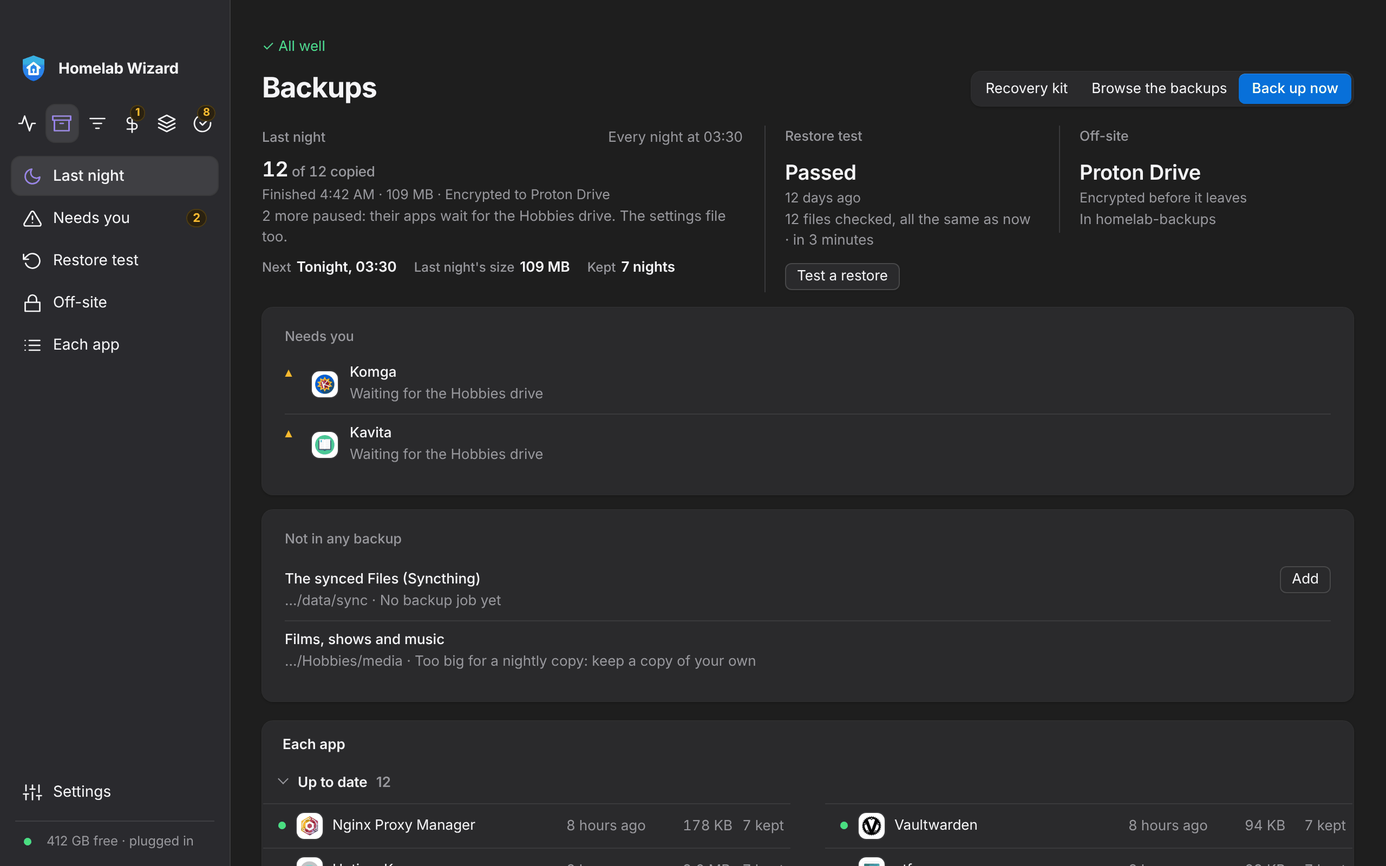
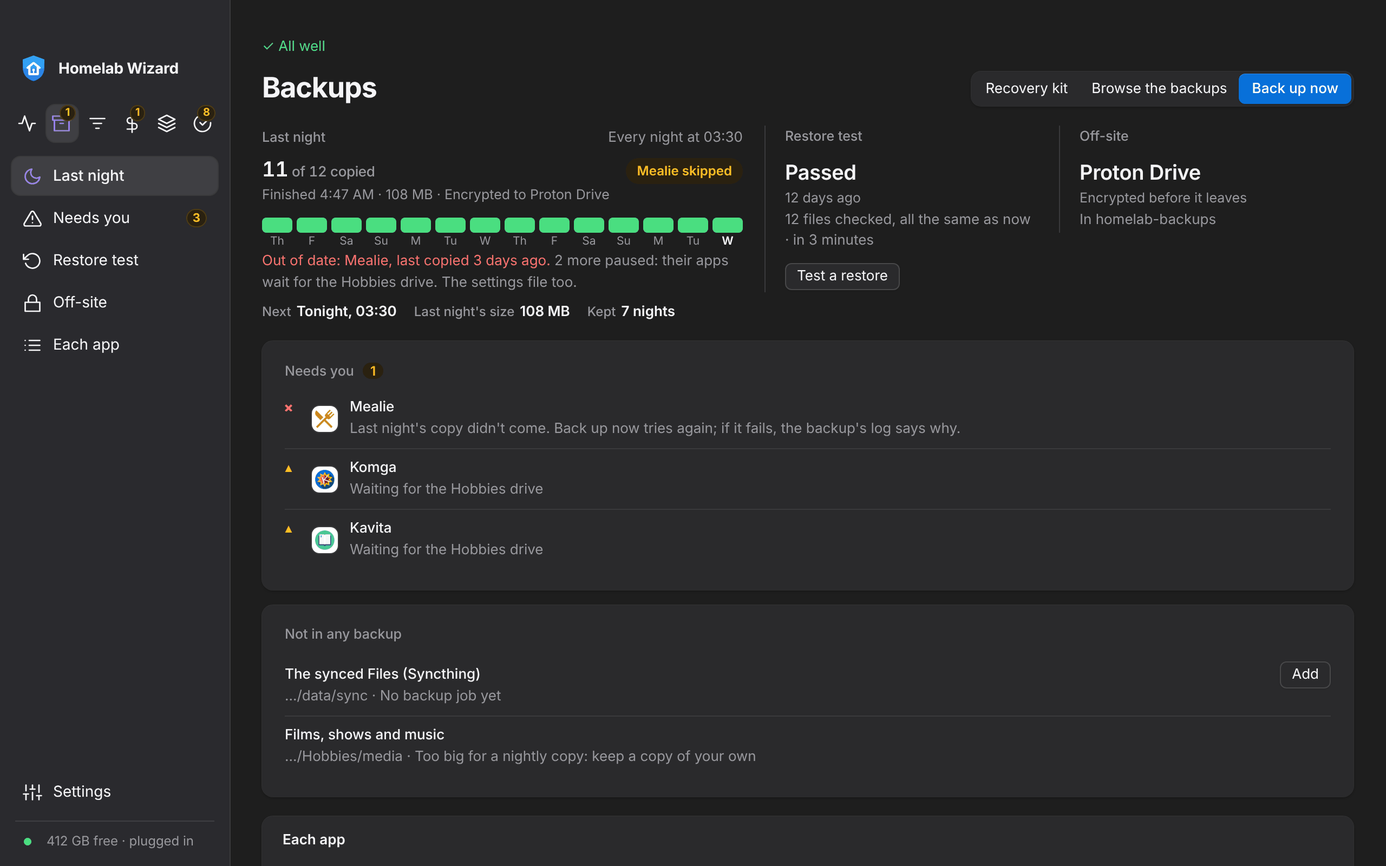
The last fourteen nights on Backups, and each app's last seven (#882)
* The last fourteen nights on Backups, and each app's last seven

R7 with lane Q's Q4 (a) (#871): under Last night a square a night, green
when every app was copied, amber when one was stopped, red when one failed,
its weekday under it and the night in words on hover (nightTone,
nightWords); in Each app each app's last seven nights as dots (appNights),
the warn and bad ones keeping their shapes. Mock nights in the smoke data
(Mealie stopped the last three, as its copy is 3 days old) and in the docs
picture (all copied, as its 12 of 12). Two smoke cases; app-backups redrawn.

Claude-Session: https://claude.ai/code/session_019rTjsZkQcBSAgkdBCC89aD

* Each app's nights in a fifth column, so a copy stays on one line

The two-to-a-line grid had four columns; the dots wrapped under the name
(smoke: one line a copy). A fifth column while nights are kept, the dots
3px apart.

Claude-Session: https://claude.ai/code/session_019rTjsZkQcBSAgkdBCC89aD

* Each app's night dots leave a one-column Backups, so nothing scrolls sideways

CI: Nothing scrolls sideways in the smallest window, backups (every system,
light): at text size 2 the dots' column pushed Each app's table past the
window. Below 760px the dots go; the squares under Last night say the
nights. The eight cases pass here, light and dark.

Claude-Session: https://claude.ai/code/session_019rTjsZkQcBSAgkdBCC89aD

---------

diff --git a/web/src/backups/Backups.tsx b/web/src/backups/Backups.tsx
@@ -82,6 +82,50 @@ export function JobRun({ j }: { j: duplicati.Job }) {
   );
 }
 
+/** A night's result for one app, as a tone: copied is ok, stopped (so not copied) warn, failed bad; nothing to copy none. */
+export const resultTone = (r?: string): Tone => (r === 'copied' ? 'ok' : r === 'stopped' ? 'warn' : r === 'failed' ? 'bad' : '');
+
+/** A whole night (quality-loop Q4 (a)): bad when an app's copy failed, warn when one was stopped, ok when every app it
+ * had to copy was copied; '' with nothing to copy. */
+export function nightTone(n: backup.Night): Tone {
+  const r = Object.values(n.apps || {});
+  if (r.includes('failed')) return 'bad';
+  if (r.includes('stopped')) return 'warn';
+  return r.includes('copied') ? 'ok' : '';
+}
+
+const nightDate = (day: string) => { const [y, m, d] = day.split('-').map(Number); return new Date(y, m - 1, d); };
+
+/** "Mon, Nov 24: 11 of 12 copied · Mealie stopped". */
+export function nightWords(n: backup.Night, name: (id: string) => string): string {
+  const all = Object.entries(n.apps || {}).filter(([, r]) => r !== 'none' && r !== 'outside');
+  const copied = all.filter(([, r]) => r === 'copied').length;
+  const missed = all.filter(([, r]) => r === 'failed' || r === 'stopped').map(([id, r]) => `${name(id)} ${r}`);
+  const day = nightDate(n.date).toLocaleDateString('en-US', { weekday: 'short', month: 'short', day: 'numeric' });
+  return `${day}: ${all.length ? `${copied} of ${all.length} copied` : 'nothing to copy'}${missed.length ? ' · ' + missed.join(', ') : ''}`;
+}
+
+/** The last fourteen nights as squares under Last night (R7), oldest first, each its weekday's letter under it. */
+function Nights({ nights, name }: { nights: backup.Night[]; name: (id: string) => string }) {
+  const shown = nights.slice(-14);
+  return (
+    <div class="bknights" role="list" aria-label={`The last ${shown.length} nights`}>
+      {shown.map((n) => {
+        const words = nightWords(n, name);
+        return (
+          <span key={n.date} role="listitem" class={'bknight ' + nightTone(n)} title={words} aria-label={words}>
+            <i />
+            <small aria-hidden="true">{['Su', 'M', 'Tu', 'W', 'Th', 'F', 'Sa'][nightDate(n.date).getDay()]}</small>
+          </span>
+        );
+      })}
+    </div>
+  );
+}
+
+/** An app's last `count` nights, oldest first: its result each night (undefined where the night didn't have it). */
+export const appNights = (nights: backup.Night[], app: string, count = 7) => nights.slice(-count).map((n) => ({ date: n.date, result: n.apps?.[app] }));
+
 /** The drives the paused copies' apps wait for, in words. */
 const drivesOf = (copies: backup.Copy[]) => [...new Set(copies.map((c) => driveName(c.waitingFor || '')))].join(' and ');
 
@@ -99,7 +143,7 @@ export interface BackupTilesProps {
  * The top of Backups as the redesign's picture (R7): Last night, with how many copied, when it finished, what it came
  * to and where it went, then Next, its size and what's kept; Needs you beside it; the restore test, off-site and Not
  * in any backup under, a third each (the last only while something is left out).
- * The fourteen nights and each app's nights join when the engine keeps them (quality-loop Q4 (a)).
+ * The fourteen nights (quality-loop Q4 (a)) as squares under Last night; each app's last seven as dots in Each app.
  */
 export function BackupTiles({ o, os, test, apps, start, gaps, addGap }: BackupTilesProps) {
   const copies = sortedCopies(o);
@@ -118,6 +162,7 @@ export function BackupTiles({ o, os, test, apps, start, gaps, addGap }: BackupTi
           figure={<span class="value">{copies.length ? <>{fresh.length}<small> of {copies.length - paused.length} copied</small></> : 'None yet'}</span>}
           label={never(o.lastRun) ? undefined : [lastNight ? `Finished ${clockText(new Date(o.lastRun))}` : ago(o.lastRun), size ? bytes(size) : '', o.destinationOK ? `Encrypted to ${placeName(o.destination)}` : ''].filter(Boolean).join(' · ')}
           chip={stale.length ? <span class="bkskipped">{stale.length === 1 ? `${stale[0].name} skipped` : `${stale.length} skipped`}</span> : undefined} />
+        {!!o.nights?.length && <Nights nights={o.nights} name={(id) => copies.find((c) => c.app === id)?.name || apps?.[id]?.name || id} />}
         <p class="bksub">{!copies.length ? 'The first are made the night after an app with a database starts'
           : <>{!!stale.length && <span class="bad">Out of date: {stale.map((c) => `${c.name}, last copied ${ago(c.newest)}`).join('; ')}. </span>}
             {!!paused.length && <span>{`${paused.length} more paused: ${paused.length === 1 ? 'its app waits' : 'their apps wait'} for ${drivesOf(paused)}`}. </span>}
@@ -183,7 +228,9 @@ export function staleWhy(c: backup.Copy, apps?: Record<string, api.AppStatus>): 
 export function CopyRows({ o, apps }: { o: backup.Overview; apps?: Record<string, api.AppStatus> }) {
   const [picked, setPicked] = useState<Record<string, boolean>>({});
   const groups = copyGroups(o);
-  if (!groups.length) return <tr><td colSpan={4} class="muted">No installed app has a database to dump yet.</td></tr>;
+  const nights = o.nights || [];
+  const cols = nights.length ? 5 : 4;
+  if (!groups.length) return <tr><td colSpan={cols} class="muted">No installed app has a database to dump yet.</td></tr>;
   return (
     <>
       {groups.map((g) => {
@@ -191,7 +238,7 @@ export function CopyRows({ o, apps }: { o: backup.Overview; apps?: Record<string
         const toggle = () => setPicked({ ...picked, [g.key]: !open });
         return [
           <tr key={'g:' + g.key} class={'grouphead fold copygroup ' + g.key + (g.tone === 'bad' ? ' bad' : '') + (open ? ' open' : '')} onClick={toggle}>
-            <th colSpan={4}>
+            <th colSpan={cols}>
               <button type="button" class="foldbtn" aria-expanded={open} onClick={(e) => { e.stopPropagation(); toggle(); }}>
                 <span class="chev" aria-hidden="true">{open ? '▾' : '▸'}</span>{g.label}
               </button>
@@ -210,6 +257,9 @@ export function CopyRows({ o, apps }: { o: backup.Overview; apps?: Record<string
                 {bytes(c.size)}{!c.shrank && changed(c) && <span class="was"> (was {bytes(c.before || 0)})</span>}
               </td>
               <td class="kept muted">{c.count ? `${c.count} kept` : '—'}</td>
+              {!!nights.length && <td class="nights" aria-label={`The last ${Math.min(7, nights.length)} nights`}>
+                {appNights(nights, c.app || c.id).map((n) => <span key={n.date} class={'dot ' + resultTone(n.result)} title={`${nightDate(n.date).toLocaleDateString('en-US', { month: 'short', day: 'numeric' })}: ${n.result || 'not copied yet'}`} />)}
+              </td>}
             </tr>
           )) : []),
         ];

diff --git a/web/dist/app.js b/web/dist/app.js
@@ -7909,6 +7909,35 @@
       !never(j3.nextRun) && line(`Next run ${dateTimeText(new Date(j3.nextRun))}`, "outfoot")
     ] });
   }
+  var resultTone = (r3) => r3 === "copied" ? "ok" : r3 === "stopped" ? "warn" : r3 === "failed" ? "bad" : "";
+  function nightTone(n3) {
+    const r3 = Object.values(n3.apps || {});
+    if (r3.includes("failed")) return "bad";
+    if (r3.includes("stopped")) return "warn";
+    return r3.includes("copied") ? "ok" : "";
+  }
+  var nightDate = (day3) => {
+    const [y3, m3, d3] = day3.split("-").map(Number);
+    return new Date(y3, m3 - 1, d3);
+  };
+  function nightWords(n3, name) {
+    const all = Object.entries(n3.apps || {}).filter(([, r3]) => r3 !== "none" && r3 !== "outside");
+    const copied = all.filter(([, r3]) => r3 === "copied").length;
+    const missed2 = all.filter(([, r3]) => r3 === "failed" || r3 === "stopped").map(([id2, r3]) => `${name(id2)} ${r3}`);
+    const day3 = nightDate(n3.date).toLocaleDateString("en-US", { weekday: "short", month: "short", day: "numeric" });
+    return `${day3}: ${all.length ? `${copied} of ${all.length} copied` : "nothing to copy"}${missed2.length ? " · " + missed2.join(", ") : ""}`;
+  }
+  function Nights({ nights, name }) {
+    const shown8 = nights.slice(-14);
+    return /* @__PURE__ */ u3("div", { class: "bknights", role: "list", "aria-label": `The last ${shown8.length} nights`, children: shown8.map((n3) => {
+      const words5 = nightWords(n3, name);
+      return /* @__PURE__ */ u3("span", { role: "listitem", class: "bknight " + nightTone(n3), title: words5, "aria-label": words5, children: [
+        /* @__PURE__ */ u3("i", {}),
+        /* @__PURE__ */ u3("small", { "aria-hidden": "true", children: ["Su", "M", "Tu", "W", "Th", "F", "Sa"][nightDate(n3.date).getDay()] })
+      ] }, n3.date);
+    }) });
+  }
+  var appNights = (nights, app, count2 = 7) => nights.slice(-count2).map((n3) => ({ date: n3.date, result: n3.apps?.[app] }));
   var drivesOf = (copies) => [...new Set(copies.map((c4) => driveName(c4.waitingFor || "")))].join(" and ");
   function BackupTiles({ o: o3, os, test, apps: apps2, start, gaps, addGap }) {
     const copies = sortedCopies(o3);
@@ -7937,6 +7966,7 @@
             chip: stale.length ? /* @__PURE__ */ u3("span", { class: "bkskipped", children: stale.length === 1 ? `${stale[0].name} skipped` : `${stale.length} skipped` }) : void 0
           }
         ),
+        !!o3.nights?.length && /* @__PURE__ */ u3(Nights, { nights: o3.nights, name: (id2) => copies.find((c4) => c4.app === id2)?.name || apps2?.[id2]?.name || id2 }),
         /* @__PURE__ */ u3("p", { class: "bksub", children: !copies.length ? "The first are made the night after an app with a database starts" : /* @__PURE__ */ u3(S, { children: [
           !!stale.length && /* @__PURE__ */ u3("span", { class: "bad", children: [
             "Out of date: ",
@@ -8027,12 +8057,14 @@
   function CopyRows({ o: o3, apps: apps2 }) {
     const [picked, setPicked] = d2({});
     const groups4 = copyGroups(o3);
-    if (!groups4.length) return /* @__PURE__ */ u3("tr", { children: /* @__PURE__ */ u3("td", { colSpan: 4, class: "muted", children: "No installed app has a database to dump yet." }) });
+    const nights = o3.nights || [];
+    const cols = nights.length ? 5 : 4;
+    if (!groups4.length) return /* @__PURE__ */ u3("tr", { children: /* @__PURE__ */ u3("td", { colSpan: cols, class: "muted", children: "No installed app has a database to dump yet." }) });
     return /* @__PURE__ */ u3(S, { children: groups4.map((g2) => {
       const open5 = picked[g2.key] ?? (g2.key === "stale" || g2.key === "fresh");
       const toggle = () => setPicked({ ...picked, [g2.key]: !open5 });
       return [
-        /* @__PURE__ */ u3("tr", { class: "grouphead fold copygroup " + g2.key + (g2.tone === "bad" ? " bad" : "") + (open5 ? " open" : ""), onClick: toggle, children: /* @__PURE__ */ u3("th", { colSpan: 4, children: [
+        /* @__PURE__ */ u3("tr", { class: "grouphead fold copygroup " + g2.key + (g2.tone === "bad" ? " bad" : "") + (open5 ? " open" : ""), onClick: toggle, children: /* @__PURE__ */ u3("th", { colSpan: cols, children: [
           /* @__PURE__ */ u3("button", { type: "button", class: "foldbtn", "aria-expanded": open5, onClick: (e3) => {
             e3.stopPropagation();
             toggle();
@@ -8066,7 +8098,8 @@
               ")"
             ] })
           ] }),
-          /* @__PURE__ */ u3("td", { class: "kept muted", children: c4.count ? `${c4.count} kept` : "—" })
+          /* @__PURE__ */ u3("td", { class: "kept muted", children: c4.count ? `${c4.count} kept` : "—" }),
+          !!nights.length && /* @__PURE__ */ u3("td", { class: "nights", "aria-label": `The last ${Math.min(7, nights.length)} nights`, children: appNights(nights, c4.app || c4.id).map((n3) => /* @__PURE__ */ u3("span", { class: "dot " + resultTone(n3.result), title: `${nightDate(n3.date).toLocaleDateString("en-US", { month: "short", day: "numeric" })}: ${n3.result || "not copied yet"}` }, n3.date)) })
         ] }, c4.id)) : []
       ];
     }) });

diff --git a/web/dist/style.css b/web/dist/style.css
@@ -3199,6 +3199,8 @@ html.companion .groupmarks { margin-right:8px; }
   #copiesCard #backupRows > tr { display:grid; min-width:0; }
   #copiesCard #backupRows > tr:is(.copygroup, .stale, .shrank), #copiesCard #backupRows > tr:only-child { grid-column:1 / -1; }
   #copiesCard #backupRows > tr.copy { grid-template-columns:minmax(0, 1fr) 7.5em 5em 4.5em; align-items:baseline; border-top:1px solid var(--line); }
+  /* With its last seven nights (R7, Q4 (a)), a fifth column for the dots. */
+  #copiesCard #backupRows > tr.copy:has(> td.nights) { grid-template-columns:minmax(0, 1fr) 7.5em 5em 4.5em 4.8em; }
   #copiesCard #backupRows > tr.copy > td:is(.when, .size, .kept) { text-align:right; }
   #copiesCard #backupRows > tr.copy > td { border:0; display:block; }
   #copiesCard #backupRows > tr.copy > td.name { padding-left:14px; overflow:hidden; text-overflow:ellipsis; }
@@ -3431,3 +3433,15 @@ html.os-mac:not(.companion) nav #settingsNav .pagebtn.active .icon { color:var(-
 /* Tidy Up's steps as a line of checks, not a row of boxes. */
 .tidysteps li { border:0; background:none; border-radius:0; padding:0; }
 .tidysteps li.now, .tidysteps li.next, .tidysteps li[aria-current] { border:0; background:none; box-shadow:none; }
+/* The last fourteen nights under Last night (R7, quality-loop Q4 (a)): a square a night, its weekday under it. */
+.bknights { display:flex; gap:4px; margin:10px 0 4px; max-width:560px; }
+.bknight { flex:1 1 0; min-width:0; display:grid; justify-items:center; gap:3px; }
+.bknight > i { display:block; width:100%; height:14px; border-radius:4px; background:var(--line); }
+.bknight.ok > i { background:var(--ok); } .bknight.warn > i { background:var(--warn); } .bknight.bad > i { background:var(--bad); }
+.bknight > small { font-size:10.5px; color:var(--muted); line-height:1; }
+.bknight:last-child > small { color:var(--text); font-weight:600; }
+/* Each app's last seven nights as dots (the warn and bad ones keep their shapes). */
+table.copies td.nights { white-space:nowrap; text-align:right; }
+table.copies td.nights .dot { margin:0 0 0 3px; }
+/* One column (a small window, big text): the dots would push the table sideways; the squares under Last night say it. */
+@container (max-width: 760px) { #copiesCard table.copies td.nights { display:none; } }

diff --git a/.claude/prompts/redesign-loop.md b/.claude/prompts/redesign-loop.md
@@ -43,7 +43,7 @@ Each is one pull request unless it says it's split. Tick it in the pull request 
 - [x] **R4. Transactions.** `computer-transactions.png`: the table first; the filters in one row of designed dropdowns (a menu button from `parts/`, in place of the browser's `<select>`), the same filters as now; rows grouped by day with each day's total; the payee's logo, the category's coloured tag, the account, and *Linked to* (the planned bill or paycheck a row paid). Budgets and *This month* move to the Budgets page. At 860px and on the phone, the list. The banks' strip ("3 new from your banks…") once M1 or M2 reports what came in. **Done Nov 24 (the table, Budgets' page); left:** the filters as menu buttons from `parts/` (styled `<select>`s today, to keep the keyboard and every test that picks one), the picture's checkboxes column, and the period from the top bar on Transactions. **Nov 24, later:** the picture's line over the table (how many, In, Out; Together with a filter on), and This paycheck and Last paycheck, each with its days, in the date picker (Every month stays the first pick: following the top bar's period by default waits on the owner, who uses Every month today).
 - [x] **R5. The rest of Finances:** Budgets, Bills & paychecks, Calendar, Net worth, Reports and an account's own page, each in the pattern (no picture: follow the pattern and the Dashboard's look, and put the pictures in the pull request). Also: Add a payment's logo picker no longer a Tab stop per logo (usability task 15, item 3: 344 presses of Tab to reach Name). **Split (Nov 24):** the logo picker, done already in #780 (one Tab stop, the arrows inside; its test *Usability task 15, item 3*); Net worth, its three figures in one row (no hole beside What's owed), done; Budgets, This month's figures as the Dashboard's with money out's change on last month in a chip, done; Renewing soon, Budgets and Goals open with the ↗ as every other card does (no See all left), done; Money flow's Top 8 drawn as Transactions' filters, and Paychecks' account tiles keep their figures level when a name wraps, done; an account's own page, its latest transactions one line each with the ↗ (no All of them button), done; Calendar was in the pattern already (its figure, its ↗, the legend), nothing to change. The pictures went to the owner in chat, as a pull request can't carry them from here.
 - [x] **R6. Status and the homelab's sidebar.** Everywhere outside Finances and Tidy Up the sidebar is Status, Backups, Tidy Up, Finances, Choose apps, with Settings at its foot and one line about the computer. Status leads with one headline ("All good" or "1 app needs you"), then the problems each with its fix, then the apps by category as compact rows, then the rest of today's cards, folded or lower. One problem, one badge. Units in one style (GB and MB, a space before). **Split (Nov 24):** (a) the sidebar's order and Settings at its foot, done; (b) Status's headline card with the problems and their fixes, done Nov 24 (in place of the Running and Needs a look tiles; Start, Logs, Its page); (c) the apps by category as compact rows, today's other cards folded or lower, done Nov 24 (each category one row with its first apps' icons and a pill, green "✓ 4 running" or amber "1 of 2 running"; the other cards were already below the list); (d) one badge per problem and the units' style, done Nov 24 (a copy stale only because its app is stopped badges Status, not Backups; sizes were already "182 MB", "3.3 GB" everywhere). **Done after (Nov 24):** the picture's Backups and This Mac cards beside the headline. Backups: last night's copies of those not waiting for a drive, when, and which were skipped, with Backups ›. This Mac: its free space as the figure, power and what runs the apps, the nightly updates with Pause, and anything wrong with the machine (Start for a stopped agent), from Setup's read through `status/machine.ts`. Instead of subscriptions is below the apps. The machine's line above stays (its test, *Status keeps this machine's line*). A phone, which doesn't read the machine, keeps Nightly updates beside Backups. **The owner, Nov 24: logos, not letters, on Status (the computer and the phone):** the iPhone app's AppLogos copied for the web (`apple-client/scripts/web-app-logos.py`), first in an app's mark, then its own icon, then its letter. **Left:** the phone's tab bar of four with Setup's steps on Status (R10). **The owner, Nov 24: the sidebar didn't look like Finances'** (only its order had changed), **and every screen's is to be laid out as Finances'** (the strip of icons, then the screen's own menu from `parts/SideMenu.tsx`, Settings at the foot; `docs/Redesign.md` changed with it; the test *Every screen's sidebar is laid out as Finances'*). The look: now a plain line icon a screen (the Mac's coloured squares gone), the open screen a white pill with its icon in the accent, the count a soft amber dot, no subtitle under the name, and the foot one line on the computer (*412 GB free · plugged in*, its dot the worst of the machine's facts; the system and version its tooltip). Status's subtitle and its machine's line went with it: the This Mac card and the foot say it (the test is now *Status' This Mac card and the sidebar's foot say how the machine is*). Settings' page list joined them as its menu in the sidebar (each page with its icon; the Page drop-down over the page in a small window's rail).
-- [x] **R7. Backups** as `computer-backups.png`: Last night with fourteen nights, Needs you, Restore test, Off-site, Each app. *Not in any backup*, *Get something back* and each app's nights join as lane Q's Q4 ships them. **Split (Nov 24):** (a) Last night (how many copied, when it finished, its size and where it went, a chip for what was skipped; Next, Last night's size, Kept) with Needs you beside it (each skipped copy with its fix, Start when its app is stopped; the paused ones waiting for their drive), done; (b) the restore test and off-site as cards, done; (c) each app compactly, two to a line on a wide window (when, size, how many kept, in columns that line up; a stale or shrunk copy and the groups' headings across the whole line), done; the fourteen nights' squares and each app's dots wait for Q4 (a), as the engine keeps no night's result yet. **Nov 25:** *Not in any backup* (lane Q's D1, #865) moved into Backups' top as a card of its own after Needs you (`#gapsTile` in `BackupTiles`, Add where a job can copy it); the top is now a row of facts with the cards under it (since #855), so not the picture's three-across. Q4 (a) has shipped (#871): the fourteen nights and each app's dots are next.
+- [x] **R7. Backups** as `computer-backups.png`: Last night with fourteen nights, Needs you, Restore test, Off-site, Each app. *Not in any backup*, *Get something back* and each app's nights join as lane Q's Q4 ships them. **Split (Nov 24):** (a) Last night (how many copied, when it finished, its size and where it went, a chip for what was skipped; Next, Last night's size, Kept) with Needs you beside it (each skipped copy with its fix, Start when its app is stopped; the paused ones waiting for their drive), done; (b) the restore test and off-site as cards, done; (c) each app compactly, two to a line on a wide window (when, size, how many kept, in columns that line up; a stale or shrunk copy and the groups' headings across the whole line), done; the fourteen nights' squares and each app's dots wait for Q4 (a), as the engine keeps no night's result yet. **Nov 25:** *Not in any backup* (lane Q's D1, #865) moved into Backups' top as a card of its own after Needs you (`#gapsTile` in `BackupTiles`, Add where a job can copy it); the top is now a row of facts with the cards under it (since #855), so not the picture's three-across. Q4 (a) has shipped (#871): then the fourteen nights as squares under Last night (green, amber with an app stopped, red with one failed, each its weekday's letter and the night in words on hover) and each app's last seven as dots in Each app (`nightTone`, `appNights`).
 - [x] **R8. Settings** as `computer-settings.png`: People, Phones, Automatic care, Alerts, Reaching the apps, This Mac; each app's own settings under Advanced. Bank connections joins with M1. **Split (Nov 24):** (a) a General page first, as the picture: People and Phones with their lists and Add a person, Pair a phone; Automatic care's three switches (Update apps every night through Status' pause, Restart an app that stops answering, Undo an update that breaks an app) and Alerts' (On this Mac's screen; Quiet hours) saving at once; Reaching the apps; This Mac's four (Storage, Power, Appearance, Advanced); each opening its page, done; (b) the list on the left as the picture's: General, People, Phones, Automatic care, Alerts, Reaching the apps without a heading; This Mac, Storage, Appearance, Tidy Up under This Mac; each app's own settings, folded by category, under Advanced. Automatic care (the updates' and self-repair's settings) and Alerts (Notifications renamed) are pages; Domain is Reaching the apps. Done, from the .env's sections without changing them. Bank connections joins with M1.
 - [x] **R9. Tidy Up** as `computer-tidy.png`: its sidebar (Overview, each library, the drives), Today with Undo, Needs a look, Needs your OK (the next first; a step that throws things away never gets the main button), the drive, Your libraries, Recently done, Genres. Watched folders and when to tidy behind the settings button; a library's step-by-step clean-up inside its page. **Split (Nov 24):** (a) the header's Folders and when… (Drop anything here, behind it) and Tidy up now; What I did today two-thirds wide with Needs a look beside it, its buttons under each thing and a count in its heading, done; (b) its sidebar (Overview with how many need a look, each library, the drive with its free space) in place of the tabs, the homelab's screens a strip of icons over it as on Finances, done (the tabs stay for a screen without the sidebar); (c) Today as the picture's: how many downloads it filed since midnight as a figure over each thing with its time and Undo; Today and Needs a look in the same two columns as Needs your OK and the drive under them, done. The picture's *Nothing lost* chip and *1 still downloading* wait for the engine to say so.
 - [x] **R10. The phone's page.** Each redesigned screen at 390px and 320px with big text against `phone-*.png`: one column, the same cards, four tabs (Setup's unfinished steps on Status), one badge per problem. A partner's three tabs (Finances, Apps, Settings) once M5 ships. **Nov 24 (part one):** Backups on the phone as `phone-backups.png`: Next, the size and what's kept one line under Last night, the restore test and off-site side by side; the phone's cases (280) pass at 390px, 320px and with big text. Status, Settings and Finances checked against their pictures: one column, four tabs where Finances is shared, Setup not a tab; the rest is the iPhone app's (P1). **Nov 24 (part two):** Setup's unfinished steps on the owner's phone's Status (*Finish setting up*, how many done, the next three, Continue to Setup), Setup being off its tab bar; not on the computer, whose sidebar has Setup. The partner's three tabs wait for M5.

diff --git a/CHANGELOG.md b/CHANGELOG.md
@@ -41,6 +41,7 @@ Notes are grouped as **New**, **Improved**, and **Fixed**, one line each, in pla
 - **Sort Transactions on the Homelab app:** on the iPhone and iPad, **Sort** beside Filter sorts Transactions by the date, payee, category, account or amount, either way, as the computer's column headers do, and each device remembers its choice. By anything but the date it's one list, each row with its day, and **Newest First** goes back. A long list shows 200 rows at a time, with **Show 200 More**.
 - **Sort these on the Homelab app's Transactions:** as on the computer, the top of Transactions on the iPhone and iPad lists what looks like a planned payment, to **Link** or say **Not It**, and money out of one of your accounts with the same into another, to **Join** as one transfer or say **Not One Transfer**. Each has Undo, and works away from home too.
 <!-- Everything else (the other lanes): add a line just below this one. -->
+- **The last fourteen nights on Backups:** on the computer, Last night shows a square for each of the last fourteen nights, green when every app was copied, amber when one was stopped, red when one failed (hover for that night), and Each app shows each app's last seven nights as dots.
 - **Not in any backup at the top of Backups:** on the computer, the folders no backup copies (with **Add** where a job can copy them) are a card of their own right after Needs you, with the night's facts, in place of a card at the foot of the page.
 - **Windows: a save no longer fails while another program reads the file:** the homelab's records and logs are saved by renaming a new copy in, which Windows refuses for a moment while the file is open elsewhere. The save waited only on *access is denied*; it now also waits on *in use by another process* and *delete pending*, as reading already did (the occasional *being used by another process* when two log rotations met).
 - **The backup keeps each night's result:** every nightly backup records, for each app it copies, whether it was copied, failed, skipped because the app was stopped or runs outside the homelab, or had no database yet, and keeps the last fourteen nights (`data/backup-nights.json`), for Backups to show which nights each app was missed.
